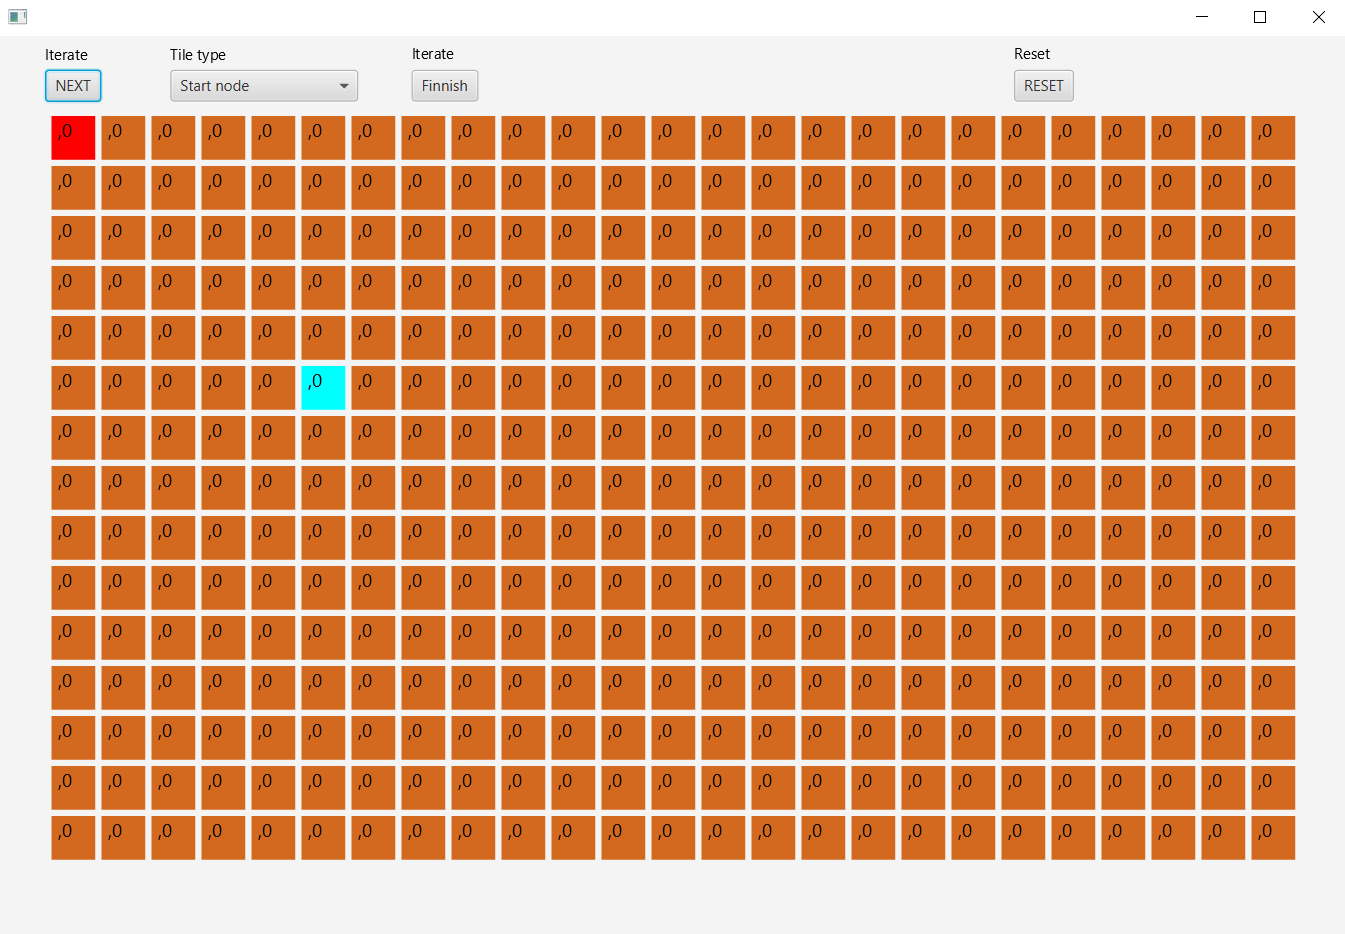
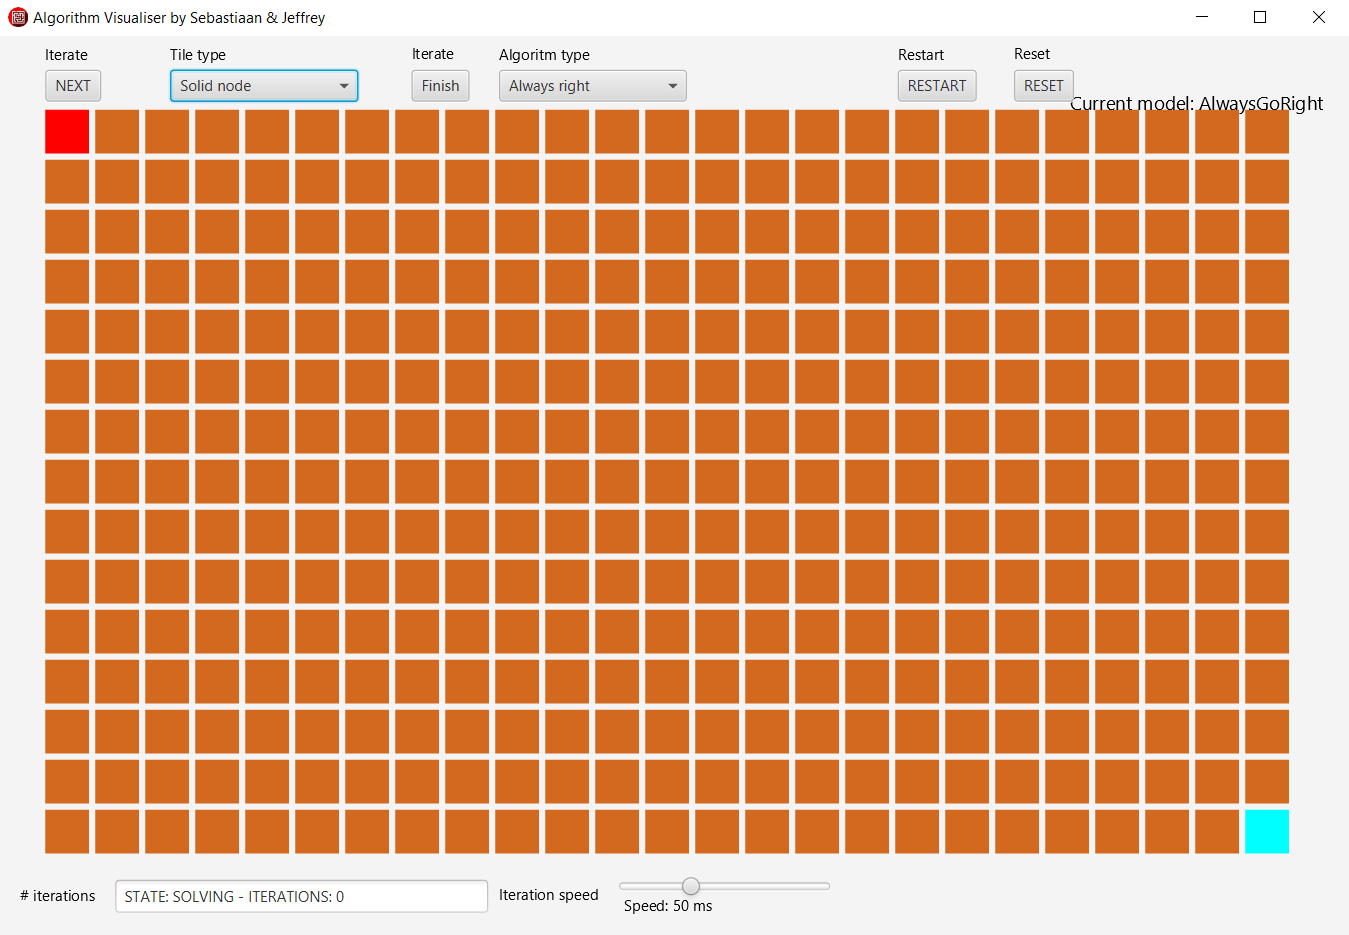
img

diff --git a/README.md b/README.md
@@ -26,8 +26,12 @@ A game is allowed but is not required. Simulations, procesvisualisations,... are
 
 ## VisualMazeSolver
 
-This application allows the user to select a start node and an end node. Futhermore, it is possible to select a solid node, creating a Maze.
-When pressing iterate it is possible to see the selected algorithm work its way to the endpoint (keep clicking). For a fast way of seeing the result, just press finish.
+This application allows the user to select a start node and an end node. You can change the location of the start and end node by dragging then over to the desired spot with your mouse.After selecting these nodes it is possible to place 
+solid nodes. These solid nodes are not traversable by the algorithmes. This enables the user to draw a maze to see how each algoritm solves
+the task at hand. This task is reaching the end node.
+
+When you press iterate it is possible to see the selected algorithm work its way to the endpoint. For a fast way of seeing the result, 
+just press finish. It will do all the calculations and draw the path insted of showing each iteration.
  
 <details>
 <summary>Click to see tile selection</summary>
